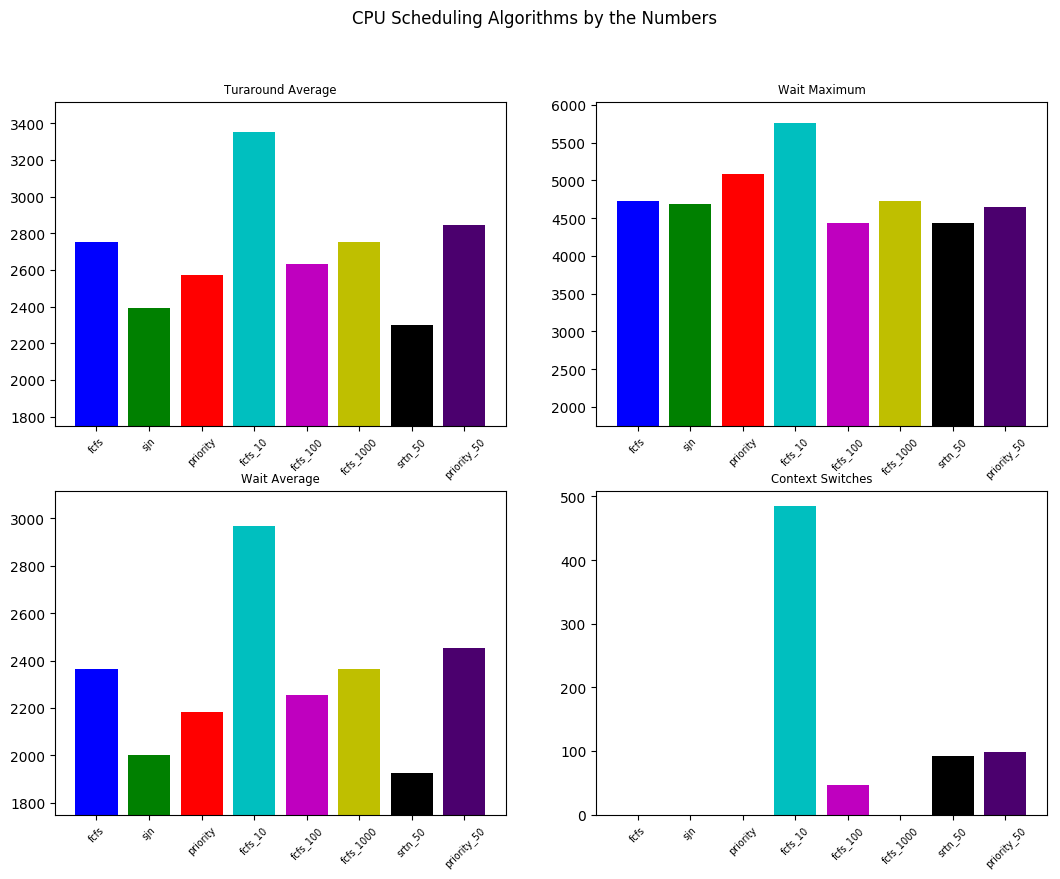
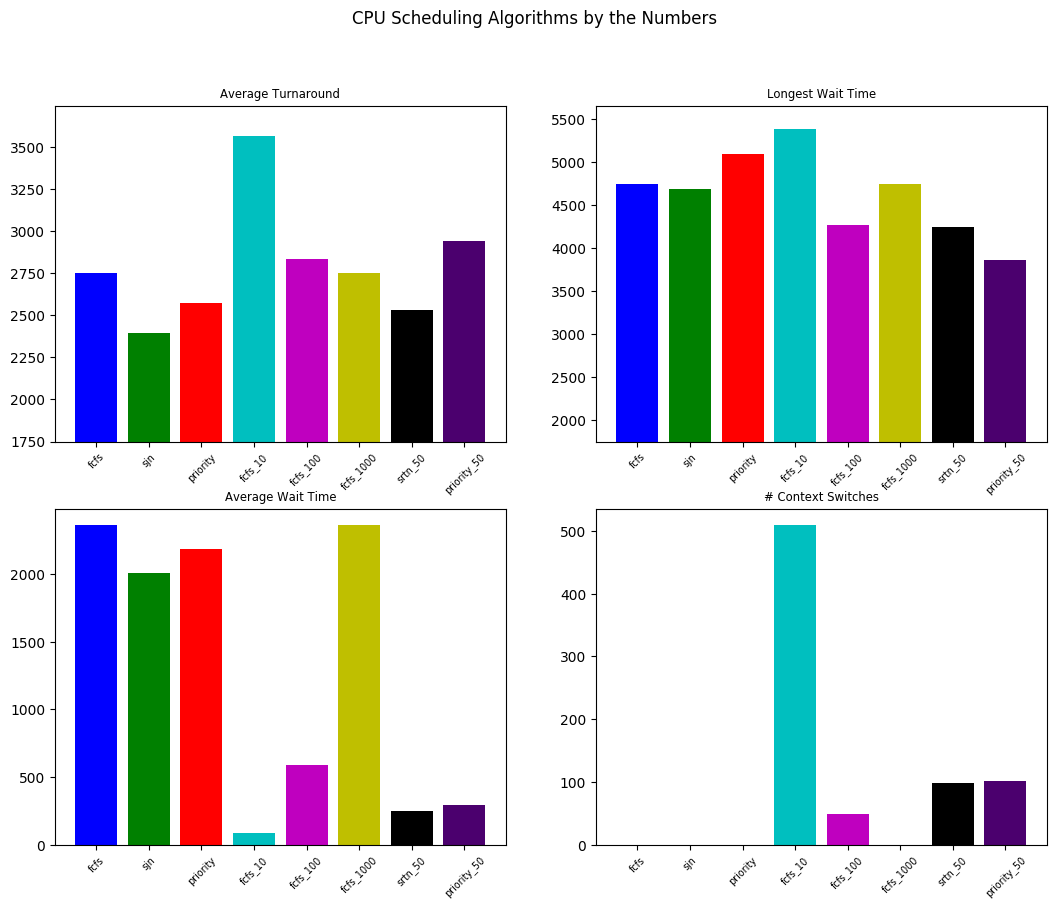
queue management bugfix

diff --git a/cpu_scheduling.py b/cpu_scheduling.py
@@ -49,6 +49,11 @@ class PCB():
         self.time_in_cpu = 0
         self.time_completed = None
         self.cpu_return_time = None
+
+        self.wait_total = 0
+        self.wait_count = 0
+        self.wait_max = 0
+        self.wait_avg = 0
     
     def __repr__(self):
         attr = [self.arrival_time,self.proc,self.pid,self.state,self.priority,self.interruptable,self.est_tot_time,self.est_remain_time,self.time_in_cpu]
@@ -70,8 +75,9 @@ def record_proc(proc):
     time_completed = str(proc.time_completed)
     runtime = str(proc.time_in_cpu)
     turn_around = int(proc.time_completed) - int(proc.arrival_time)
-    wait_time = turn_around - int(proc.time_in_cpu)
-    return ','.join([proc.proc, time_completed, runtime, str(turn_around), str(wait_time)]) + '\n'
+    wait_avg = str(proc.wait_avg)
+    wait_max = str(proc.wait_max)
+    return ','.join([proc.proc, time_completed, runtime, str(turn_around), wait_avg, wait_max]) + '\n'
 
 def record_to_file(alg,record_list,ctx_count,rr=None):
     '''Write list of record_proc outputs to file and return filename'''
@@ -84,7 +90,7 @@ def record_to_file(alg,record_list,ctx_count,rr=None):
 
     with open(fname,'w') as file:
         file.write('context_switches:'+ str(ctx_count)+'\n')
-        file.write("proc,completion_time,runtime,turnaround,wait\n")
+        file.write("proc,completion_time,runtime,turnaround,wait_avg,wait_max\n")
         for entry in record_list:
             file.write(entry)
     return fname
@@ -98,8 +104,8 @@ def file_stats(filename):
     df = pd.read_csv(filename,skiprows=1)
 
     stats['turnaround_avg'] = int(df.turnaround.mean())
-    stats['wait_avg'] = int(df.wait.mean())
-    stats['wait_max'] = df.wait.max()
+    stats['wait_avg'] = int(df.wait_avg.mean())
+    stats['wait_max'] = df.wait_max.max()
     stats['total_runtime'] = df.runtime.sum() + 2 * ctx_count
     stats['ctx_count'] = ctx_count
 
@@ -108,20 +114,30 @@ def file_stats(filename):
 #### ---- Statistics ---- ####
 
 ##### ---- Algortithms ---- #####
+def prevent_repick(pcb_list):
+    '''Prevent PCBs just put back in queue from being chosen'''
+    if (len(pcb_list) > 1) and (pcb_list[-1].cpu_return_time):
+        return pcb_list[:-1]
+    else:
+        return  pcb_list
+
 def fcfs(pcb_list):
     '''First come first serve'''
-    chosen_pcb = sorted(pcb_list, key=lambda pcb: pcb.arrival_time)[0]
+    clean_pcb_list = prevent_repick(pcb_list)
+    chosen_pcb = sorted(clean_pcb_list, key=lambda pcb: pcb.arrival_time)[0]
     return pcb_list.pop(pcb_list.index(chosen_pcb))
 
 def sjn(pcb_list):
     '''Shortest job next'''
     #NOTE: Functions as SRTN when time qunatum used
-    chosen_pcb = sorted(pcb_list, key=lambda pcb: pcb.est_remain_time)[0]
+    clean_pcb_list = prevent_repick(pcb_list)
+    chosen_pcb = sorted(clean_pcb_list, key=lambda pcb: pcb.est_remain_time)[0]
     return pcb_list.pop(pcb_list.index(chosen_pcb))
 
 def priority(pcb_list):
     '''Highest Priority'''
-    chosen_pcb = sorted(pcb_list, key=lambda pcb: pcb.priority)[0]
+    clean_pcb_list = prevent_repick(pcb_list)
+    chosen_pcb = sorted(clean_pcb_list, key=lambda pcb: pcb.priority)[0]
     return pcb_list.pop(pcb_list.index(chosen_pcb))
 
 ##### ---- Algortithms ---- #####
@@ -157,6 +173,21 @@ def add_incoming(ready_list,incoming_list,cpu_return_list,current_time):
     for proc in arrived_list:
         ready_list.append(proc)
 
+def update_pcb_wait(pcb,current_time):
+
+    if pcb.cpu_return_time != None:
+        wait_increment = current_time - pcb.cpu_return_time
+    else:
+        wait_increment = current_time - pcb.arrival_time
+
+    pcb.wait_total += wait_increment
+    pcb.wait_count += 1
+
+    if wait_increment > pcb.wait_max:
+        pcb.wait_max = wait_increment
+
+    pcb.wait_avg = int(pcb.wait_total / pcb.wait_count)
+
 def scheduler(alg,tq=None):
 
     #Populate Initial Queue
@@ -181,6 +212,9 @@ def scheduler(alg,tq=None):
             
             #choose pcb from ready_list based on alg
             chosen_proc = alg(ready_list)
+
+            #update process waiting statistics
+            update_pcb_wait(chosen_proc,current_time)
 
             #RR
             if tq: 
@@ -262,11 +296,11 @@ def demo_plot(results):
 
     ax_list = [axs[0,0],axs[1,0],axs[0,1],axs[1,1]]
 
-    titles = ['Turaround Average','Wait Average','Wait Maximum','Context Switches']
+    titles = ['Average Turnaround','Average Wait Time','Longest Wait Time','# Context Switches']
     for ax,title in zip(ax_list,titles):
         ax.tick_params(axis='x',labelrotation=45,labelsize='x-small')
 
-        if ax != axs[1,1]:
+        if (ax != axs[1,1]) and (ax != axs[1,0]):
             ax.set_ylim(bottom=1750)
         ax.set_title(title,fontsize='small')
 
